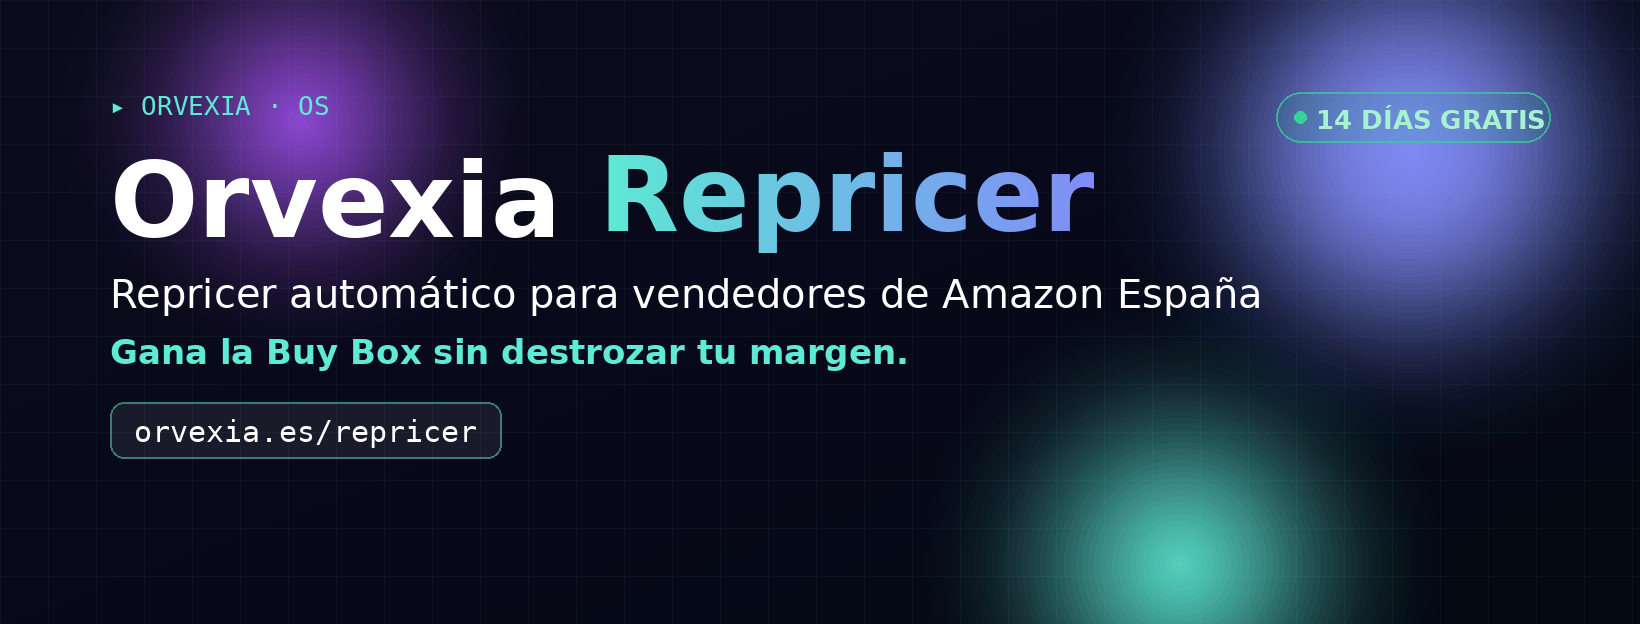
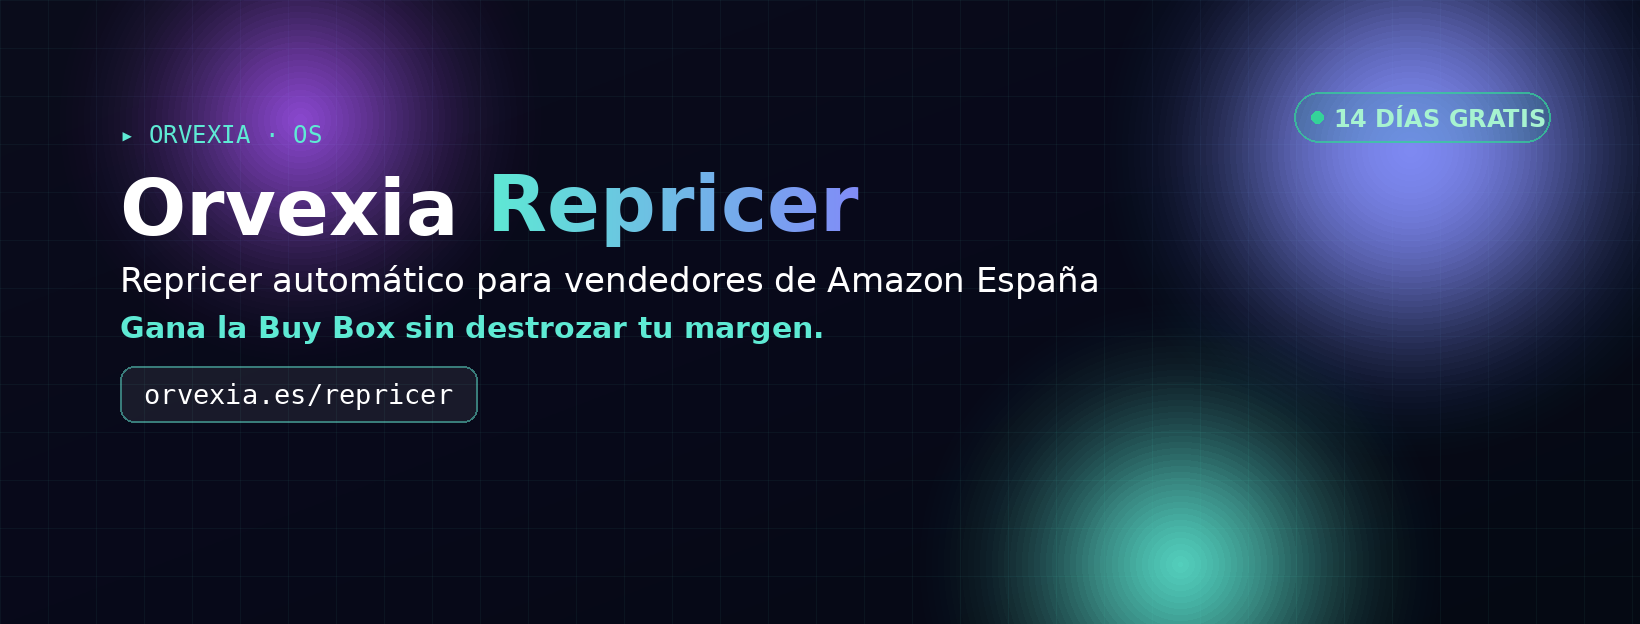
chore(marketing): compactar la portada de Facebook
Reduce el titular y aprieta el espaciado para que "Orvexia Repricer"
y el resto del texto quepan dentro de la zona segura (recorte móvil).

Claude-Session: https://claude.ai/code/session_01TzADmDVUthbusFEbpTaSGv

diff --git a/scripts/fb_cover.py b/scripts/fb_cover.py
@@ -18,12 +18,12 @@ F = "/usr/share/fonts/truetype/dejavu/"
 def font(name, size):
     return ImageFont.truetype(F + name, size)
 
-f_kicker = font("DejaVuSansMono.ttf", 26)
-f_h1     = font("DejaVuSans-Bold.ttf", 104)
-f_sub    = font("DejaVuSans.ttf", 40)
-f_tag    = font("DejaVuSans-Bold.ttf", 34)
-f_url    = font("DejaVuSansMono.ttf", 30)
-f_badge  = font("DejaVuSans-Bold.ttf", 26)
+f_kicker = font("DejaVuSansMono.ttf", 24)
+f_h1     = font("DejaVuSans-Bold.ttf", 78)
+f_sub    = font("DejaVuSans.ttf", 34)
+f_tag    = font("DejaVuSans-Bold.ttf", 30)
+f_url    = font("DejaVuSansMono.ttf", 27)
+f_badge  = font("DejaVuSans-Bold.ttf", 24)
 
 img = Image.new("RGB", (W, H), BG_MID)
 px = img.load()
@@ -78,31 +78,32 @@ def gradient_text(draw_img, xy, text, fnt, c1, c2):
     draw_img.paste(grad, (xy[0], xy[1]), mask)
     return tw
 
-# Márgenes: dejamos limpia la esquina inferior-izquierda (foto de perfil FB)
-LEFT = 110
-TOP = 90
+# Márgenes: dejamos limpia la esquina inferior-izquierda (foto de perfil FB).
+# Contenido más centrado horizontalmente para sobrevivir al recorte de móvil.
+LEFT = 120
+TOP = 120
 
 # Kicker
 draw.text((LEFT, TOP), "▸ ORVEXIA · OS", font=f_kicker, fill=(94, 234, 212, 220))
 
 # Titular: "Orvexia " (blanco) + "Repricer" (gradiente neón)
-y1 = TOP + 50
+y1 = TOP + 42
 w_a = draw.textlength("Orvexia ", font=f_h1)
 draw.text((LEFT, y1), "Orvexia ", font=f_h1, fill=WHITE)
-gradient_text(img, (LEFT + int(w_a), y1 + 8), "Repricer", f_h1, CYAN, INDIGO)
+gradient_text(img, (LEFT + int(w_a), y1 + 6), "Repricer", f_h1, CYAN, INDIGO)
 
 # Subtítulo
-y2 = y1 + 130
+y2 = y1 + 98
 draw.text((LEFT, y2), "Repricer automático para vendedores de Amazon España",
           font=f_sub, fill=(255, 255, 255, 205))
 
 # Tagline (cian)
-y3 = y2 + 62
+y3 = y2 + 50
 draw.text((LEFT, y3), "Gana la Buy Box sin destrozar tu margen.",
           font=f_tag, fill=CYAN)
 
 # Pill de URL
-y4 = y3 + 70
+y4 = y3 + 56
 url = "orvexia.es/repricer"
 uw = draw.textlength(url, font=f_url)
 pad = 24
